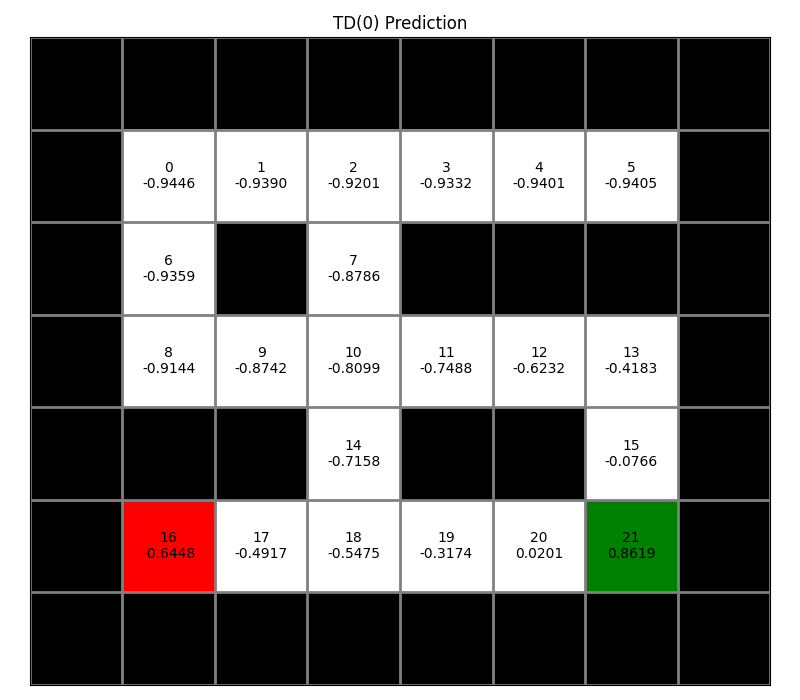
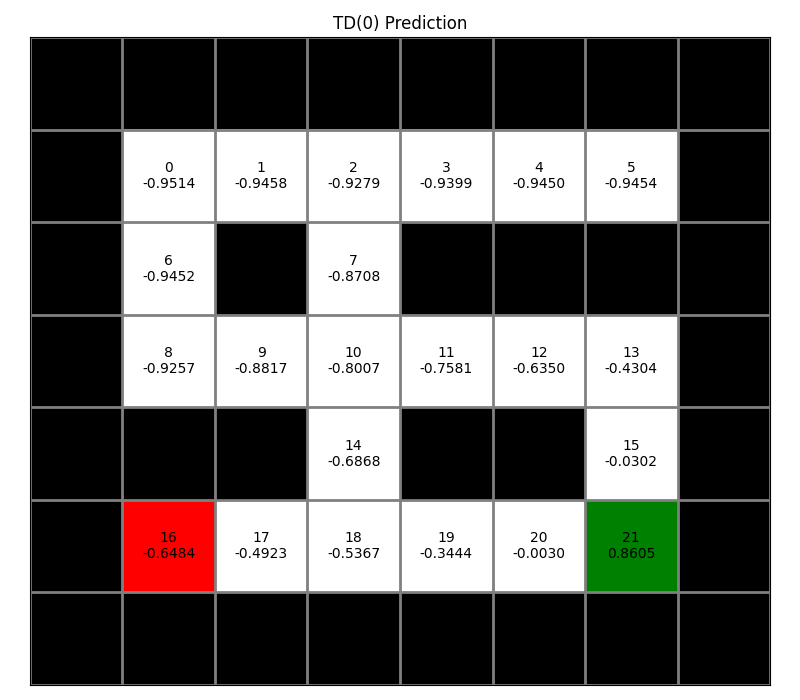
edit

diff --git a/Assignment2/main.py b/Assignment2/main.py
@@ -1,6 +1,7 @@
 import random
 import numpy as np
 import json
+import matplotlib.pyplot as plt
 
 from algorithms import (
     MonteCarloPrediction,
@@ -154,6 +155,7 @@ def run_MC_policy_iteration(grid_world: GridWorld, iter_num: int):
     grid_world.reset()
     print()
 
+
 def run_SARSA(grid_world: GridWorld, iter_num: int):
     print(bold(underline("SARSA Policy Iteration")))
     policy_iteration = SARSA(
@@ -208,8 +210,75 @@ def run_Q_Learning(grid_world: GridWorld, iter_num: int):
     grid_world.reset()
     print()
 
+def analysis():
+    v_gt = np.load("prediction_GT.npy")
+    grid_world = init_grid_world("maze.txt",INIT_POS)
+    all_state_value = []
+    for seed in range(1, 51):
+        # state_value = run_MC_prediction(grid_world,seed)
+        state_value = run_TD_prediction(grid_world,seed)   
+        all_state_value.append(state_value)
+    v_avg = np.mean(all_state_value, axis=0)
+    bias = v_avg - v_gt
+    var = np.var(all_state_value, axis=0)
+
+    # grid_world.visualize(
+    #     bias,
+    #     title=f"TD(0) Prediction (Bias for 50 seeds)",
+    #     show=False,
+    #     filename=f"TD0_prediction_bias.png",
+    # )
+    # grid_world.visualize(
+    #     var,
+    #     title=f"TD(0) Prediction (Variance for 50 seeds)",
+    #     show=False,
+    #     filename=f"TD0_prediction_var.png",
+    # )
+    
+    grid_world.visualize(
+        bias,
+        title=f"TD0 Prediction (Bias for 50 seeds)",
+        show=False,
+        filename=f"TD0_prediction_bias.png",
+    )
+    grid_world.visualize(
+        var,
+        title=f"TD0 Prediction (Variance for 50 seeds)",
+        show=False,
+        filename=f"TD0_prediction_var.png",
+    )
+    print("Mean Bias: " + str(np.mean(bias)))
+    print("Mean Var: " + str(np.mean(var)))
+
+    np.save('TD0_v_avg.npy', v_avg)
+    np.save('TD0_bias.npy', bias)
+
+def MC_curve_analysis():
+    grid_world = init_grid_world("maze.txt")
+    iter_num = 512000
+    epsilon_set = [0.1, 0.2, 0.3, 0.4]
+    plt.figure()
+
+    for e in epsilon_set:
+        policy_iteration = MonteCarloPolicyIteration(
+                grid_world, 
+                discount_factor=DISCOUNT_FACTOR,
+                learning_rate=LEARNING_RATE,
+                epsilon= e,
+        )
+        policy_iteration.run(max_episode=iter_num)
+        lr = policy_iteration.learning_curve
+        loss = policy_iteration.loss_curve
+        plt.plot(range(1, len(lr)+1), loss, label=f'epsilon = {e}')
+        plt.xlabel('Episode')
+        plt.ylabel('Average Non-discounted Episodic Reward (Last 10 Episodes)')
+        plt.title('Learning Curve')
+        plt.show()
+
+
 if __name__ == "__main__":
-    seed = 1
+    # analysis()
+    MC_curve_analysis()
     # grid_world = init_grid_world("maze.txt",INIT_POS)
     # 2-1
     # run_MC_prediction(grid_world,seed)
@@ -217,7 +286,7 @@ if __name__ == "__main__":
     # run_NstepTD_prediction(grid_world,seed)
 
     # 2-2
-    grid_world = init_grid_world("maze.txt")
-    run_MC_policy_iteration(grid_world, 512000)
+    # grid_world = init_grid_world("maze.txt")
+    # run_MC_policy_iteration(grid_world, 512000)
     # run_SARSA(grid_world, 512000)
     # run_Q_Learning(grid_world, 50000)

diff --git a/Assignment2/algorithms - 複製.py b/Assignment2/algorithms - 複製.py
@@ -249,18 +249,16 @@ class MonteCarloPolicyIteration(ModelFreeControl):
         """Evaluate the policy and update the values after one episode"""
         # TODO: Evaluate state value for each Q(s,a)
         G = 0
-        loss_record = []
+        loss_trace = []
         for i in range(len(reward_trace)-1, -1, -1):
             reward = reward_trace[i]
             state = state_trace[i]
             action = action_trace[i]
             G = self.discount_factor * G + reward
             loss = G - self.q_values[state][action]
-            self.q_values[state][action] += self.lr*loss     
-            # add
-            loss_record.append(abs(loss))
-        return np.mean(loss_record)
-
+            self.q_values[state][action] += self.lr*loss
+            loss_trace.append(loss)
+            
         
         # state value最後會get出來，所以不用自己從q value寫到state value
 
@@ -287,10 +285,7 @@ class MonteCarloPolicyIteration(ModelFreeControl):
         reward_trace  = []
         seed = 1
         rng = np.random.default_rng(seed)
-        
-        loss_per_episode = []
-        reward_per_episode = []
-
+        learning_curve = []
                 
         while iter_episode < max_episode:
             # TODO: write your code here
@@ -306,23 +301,20 @@ class MonteCarloPolicyIteration(ModelFreeControl):
                 action_trace.append(action)
                 reward_trace.append(reward)
             # print(done)
-            loss_per_episode.append(self.policy_evaluation(state_trace, action_trace, reward_trace))
-            reward_per_episode.append(np.mean(reward_trace))
+            self.policy_evaluation(state_trace, action_trace, reward_trace)
             self.policy_improvement()               
-  
-            # if iter_episode % 100 == 0:
-            #     print(iter_episode)
-            if iter_episode >= 10:
-                self.learning_curve.append(np.mean(reward_per_episode[-10:]))
-                self.loss_curve.append(np.mean(loss_per_episode[-10:]))
-            else:
-                self.learning_curve.append(np.mean(reward_per_episode)) 
-                self.loss_curve.append(np.mean(loss_per_episode))      
-
             state_trace   = [self.grid_world.get_current_state()]
             action_trace  = []
             reward_trace  = []
             iter_episode += 1
+
+            # if iter_episode % 100 == 0:
+            #     print(iter_episode)
+            if iter_episode >= max_episode - 10:
+                print(iter_episode)
+                print(len(np.mean(reward_trace)))
+                learning_curve.append(np.mean(reward_trace))
+
 
 class SARSA(ModelFreeControl):
     def __init__(

diff --git a/Assignment2/analysis.py b/Assignment2/analysis.py
@@ -1,0 +1,5 @@
+import numpy as np
+import main
+
+
+gt_state = np.load("prediction_GT.npy")
